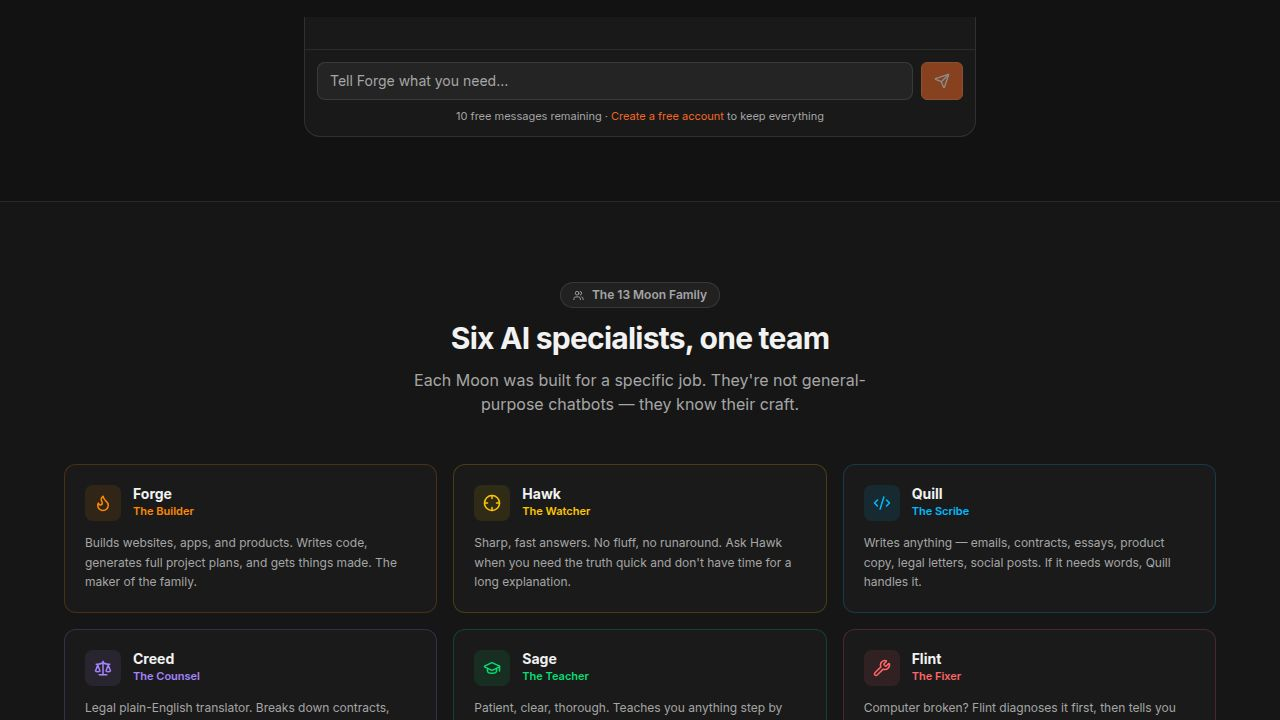
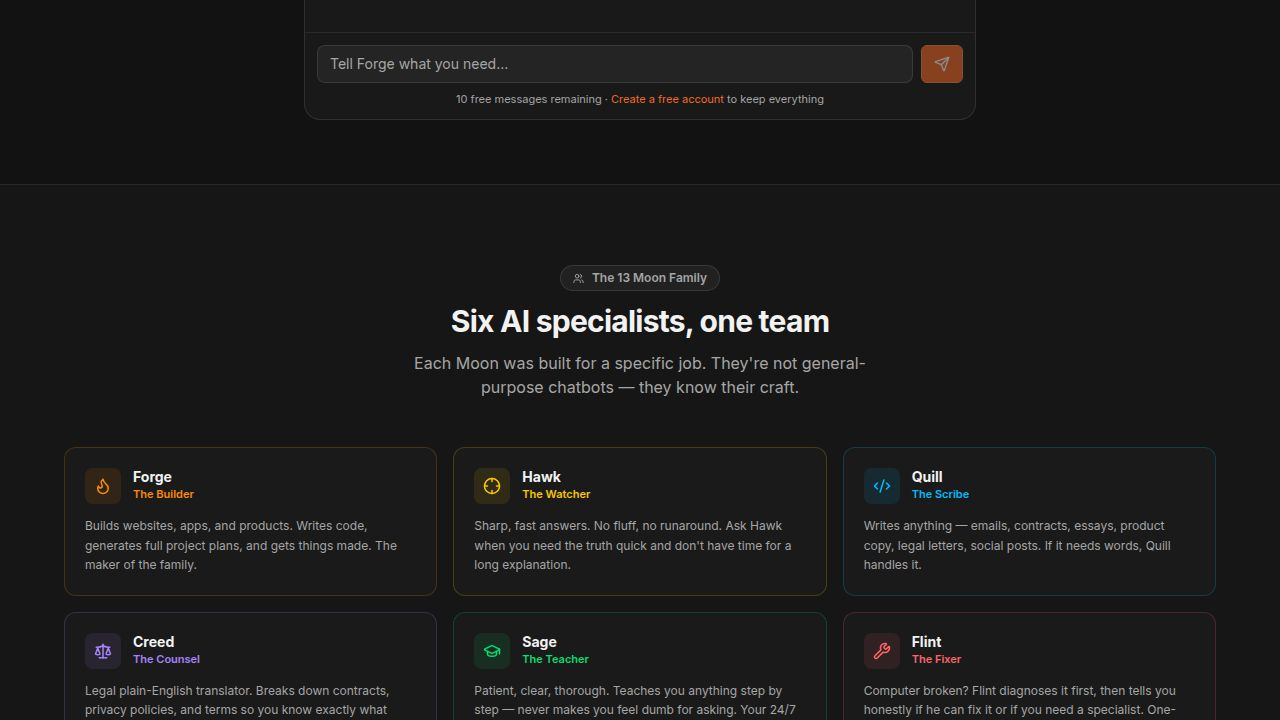
Integrate Clerk for user authentication and session management
Introduce Clerk authentication to the application by updating frontend components, backend API routes, and Docker configurations to support Clerk sign-in, session bridging, and environment variable handling.

Replit-Commit-Author: Agent
Replit-Commit-Session-Id: cb496eb3-b730-44a3-8812-dbd408260926
Replit-Commit-Checkpoint-Type: full_checkpoint
Replit-Commit-Event-Id: 6aef5fe7-769d-446c-9860-3d945cc6a3eb
Replit-Commit-Screenshot-Url: https://storage.googleapis.com/screenshot-production-us-central1/ae502d99-2e22-4428-9695-6a23076322d0/cb496eb3-b730-44a3-8812-dbd408260926/g1MHOLv
Replit-Helium-Checkpoint-Created: true

diff --git a/artifacts/the-forge/src/pages/clerk-callback.tsx b/artifacts/the-forge/src/pages/clerk-callback.tsx
@@ -1,0 +1,53 @@
+import { useEffect } from "react";
+import {
+  useAuth as useClerkAuth,
+  useSession,
+} from "@clerk/clerk-react";
+import { useLocation } from "wouter";
+
+const CLERK_KEY = import.meta.env.VITE_CLERK_PUBLISHABLE_KEY as string | undefined;
+
+export default function ClerkCallbackPage() {
+  const { isSignedIn, isLoaded } = useClerkAuth();
+  const { session } = useSession();
+  const [, navigate] = useLocation();
+
+  useEffect(() => {
+    if (!CLERK_KEY) {
+      navigate("/sign-in");
+      return;
+    }
+    if (!isLoaded) return;
+
+    if (!isSignedIn || !session) {
+      navigate("/sign-in");
+      return;
+    }
+
+    session
+      .getToken()
+      .then((token) => {
+        if (!token) {
+          navigate("/sign-in");
+          return;
+        }
+        return fetch("/x-auth/clerk-session", {
+          method: "POST",
+          credentials: "include",
+          headers: { "Content-Type": "application/json" },
+          body: JSON.stringify({ token }),
+        });
+      })
+      .then((res) => {
+        if (!res || !res.ok) throw new Error("session creation failed");
+        window.location.href = "/";
+      })
+      .catch(() => navigate("/sign-in"));
+  }, [isLoaded, isSignedIn, session, navigate]);
+
+  return (
+    <div className="flex min-h-screen items-center justify-center bg-background">
+      <div className="h-8 w-8 animate-spin rounded-full border-2 border-primary border-t-transparent" />
+    </div>
+  );
+}

diff --git a/artifacts/api-server/src/routes/auth.ts b/artifacts/api-server/src/routes/auth.ts
@@ -423,4 +423,54 @@ router.post("/mobile-auth/logout", async (req: Request, res: Response) => {
   res.json(LogoutMobileSessionResponse.parse({ success: true }));
 });
 
+// ─── Clerk session bridge ─────────────────────────────────────────────────────
+// Exchange a Clerk front-end JWT for a backend session cookie.
+// This is the sign-in path when Replit OIDC is unavailable (e.g. self-hosted
+// on a custom domain such as 13moonforge.ai).
+router.post("/auth/clerk-session", async (req: Request, res: Response) => {
+  const { token } = req.body as { token?: string };
+  if (!token) {
+    res.status(400).json({ error: "token required" });
+    return;
+  }
+
+  const secretKey = process.env.CLERK_SECRET_KEY;
+  if (!secretKey) {
+    res.status(503).json({ error: "Clerk not configured on this server" });
+    return;
+  }
+
+  try {
+    const { createClerkClient, verifyToken } = await import("@clerk/backend");
+
+    const payload = await verifyToken(token, { secretKey });
+
+    const clerkClient = createClerkClient({ secretKey });
+    const clerkUser = await clerkClient.users.getUser(payload.sub);
+
+    const userData = {
+      id: clerkUser.id,
+      email: clerkUser.emailAddresses[0]?.emailAddress ?? null,
+      firstName: clerkUser.firstName ?? null,
+      lastName: clerkUser.lastName ?? null,
+      profileImageUrl: clerkUser.imageUrl ?? null,
+    };
+
+    await db
+      .insert(usersTable)
+      .values(userData)
+      .onConflictDoUpdate({
+        target: usersTable.id,
+        set: { ...userData, updatedAt: new Date() },
+      });
+
+    const sid = await createSession({ user: userData, access_token: token });
+    setSessionCookie(res, sid);
+    res.json({ ok: true });
+  } catch (err) {
+    req.log.warn({ err }, "clerk-session bridge error");
+    res.status(401).json({ error: "Invalid Clerk token" });
+  }
+});
+
 export default router;

diff --git a/artifacts/the-forge/src/pages/sign-in.tsx b/artifacts/the-forge/src/pages/sign-in.tsx
@@ -1,27 +1,31 @@
-import { useEffect } from "react";
+import { SignIn } from "@clerk/clerk-react";
 
-const basePath = import.meta.env.BASE_URL.replace(/\/$/, "");
+const CLERK_KEY = import.meta.env.VITE_CLERK_PUBLISHABLE_KEY as string | undefined;
 
 export default function SignInPage() {
-  useEffect(() => {
-    const returnTo = basePath || "/";
-    fetch(`/x-auth/login?returnTo=${encodeURIComponent(returnTo)}`, {
-      method: "POST",
-      credentials: "include",
-      headers: { "Content-Type": "application/json" },
-    })
-      .then((res) => res.json())
-      .then((data: { loginUrl?: string }) => {
-        if (data.loginUrl) window.location.href = data.loginUrl;
-      })
-      .catch(() => {
-        window.location.href = `/x-auth/login?returnTo=${encodeURIComponent(returnTo)}`;
-      });
-  }, []);
+  if (!CLERK_KEY) {
+    return (
+      <div className="flex min-h-screen items-center justify-center bg-background">
+        <div className="text-center space-y-3 px-6">
+          <div className="w-10 h-10 rounded-xl bg-primary/10 flex items-center justify-center mx-auto">
+            <span className="text-xl">🔒</span>
+          </div>
+          <p className="font-semibold text-foreground">Authentication not configured</p>
+          <p className="text-sm text-muted-foreground max-w-xs">
+            This deployment is missing a required key. Contact the site administrator.
+          </p>
+        </div>
+      </div>
+    );
+  }
 
   return (
     <div className="flex min-h-screen items-center justify-center bg-background">
-      <div className="h-8 w-8 animate-spin rounded-full border-2 border-primary border-t-transparent" />
+      <SignIn
+        routing="hash"
+        forceRedirectUrl="/x-auth/clerk-callback"
+        signUpForceRedirectUrl="/x-auth/clerk-callback"
+      />
     </div>
   );
 }

diff --git a/artifacts/the-forge/src/pages/sign-up.tsx b/artifacts/the-forge/src/pages/sign-up.tsx
@@ -1,15 +1,31 @@
-import { useEffect } from "react";
+import { SignUp } from "@clerk/clerk-react";
 
-const basePath = import.meta.env.BASE_URL.replace(/\/$/, "");
+const CLERK_KEY = import.meta.env.VITE_CLERK_PUBLISHABLE_KEY as string | undefined;
 
 export default function SignUpPage() {
-  useEffect(() => {
-    window.location.href = `/api/auth/login?returnTo=${encodeURIComponent(basePath || "/")}`;
-  }, []);
+  if (!CLERK_KEY) {
+    return (
+      <div className="flex min-h-screen items-center justify-center bg-background">
+        <div className="text-center space-y-3 px-6">
+          <div className="w-10 h-10 rounded-xl bg-primary/10 flex items-center justify-center mx-auto">
+            <span className="text-xl">🔒</span>
+          </div>
+          <p className="font-semibold text-foreground">Authentication not configured</p>
+          <p className="text-sm text-muted-foreground max-w-xs">
+            This deployment is missing a required key. Contact the site administrator.
+          </p>
+        </div>
+      </div>
+    );
+  }
 
   return (
     <div className="flex min-h-screen items-center justify-center bg-background">
-      <div className="h-8 w-8 animate-spin rounded-full border-2 border-primary border-t-transparent" />
+      <SignUp
+        routing="hash"
+        forceRedirectUrl="/x-auth/clerk-callback"
+        signInForceRedirectUrl="/x-auth/clerk-callback"
+      />
     </div>
   );
 }

diff --git a/artifacts/the-forge/src/App.tsx b/artifacts/the-forge/src/App.tsx
@@ -1,6 +1,7 @@
 import { lazy, Suspense, useEffect, Component, type ReactNode, type ErrorInfo } from "react";
 import { Switch, Route, Router as WouterRouter, useLocation } from "wouter";
 import { QueryClient, QueryClientProvider } from "@tanstack/react-query";
+import { ClerkProvider } from "@clerk/clerk-react";
 import { useAuth } from "@workspace/replit-auth-web";
 import { Toaster } from "@/components/ui/toaster";
 import { TooltipProvider } from "@/components/ui/tooltip";
@@ -90,9 +91,10 @@ const ForgeCoderPage   = lazy(() => import("@/pages/forge-coder"));
 const ProjectRoomPage  = lazy(() => import("@/pages/project-room"));
 const MoonPage         = lazy(() => import("@/pages/moon-page"));
 const LedgerPage       = lazy(() => import("@/pages/moons/ledger"));
-const AppInspectorPage = lazy(() => import("@/pages/app-inspector"));
-const BugCheckerPage   = lazy(() => import("@/pages/bug-checker"));
-const AppHealthPage    = lazy(() => import("@/pages/app-health"));
+const AppInspectorPage  = lazy(() => import("@/pages/app-inspector"));
+const BugCheckerPage    = lazy(() => import("@/pages/bug-checker"));
+const AppHealthPage     = lazy(() => import("@/pages/app-health"));
+const ClerkCallbackPage = lazy(() => import("@/pages/clerk-callback"));
 
 const basePath = import.meta.env.BASE_URL.replace(/\/$/, "");
 const API_BASE = basePath;
@@ -266,6 +268,7 @@ function Router() {
     <Suspense fallback={<PageLoader />}>
       <Switch>
         <Route path="/x-auth/callback" component={AuthCallback} />
+        <Route path="/x-auth/clerk-callback" component={ClerkCallbackPage} />
         <Route path="/sign-in/*?" component={SignInPage} />
         <Route path="/sign-up/*?" component={SignUpPage} />
         <Route path="/share/:id" component={ShareView} />
@@ -370,8 +373,10 @@ function Router() {
   );
 }
 
+const CLERK_PUBLISHABLE_KEY = import.meta.env.VITE_CLERK_PUBLISHABLE_KEY as string | undefined;
+
 function App() {
-  return (
+  const inner = (
     <WouterRouter base={basePath}>
       <QueryClientProvider client={queryClient}>
         <ReferralClaimHandler />
@@ -382,6 +387,14 @@ function App() {
         </TooltipProvider>
       </QueryClientProvider>
     </WouterRouter>
+  );
+
+  if (!CLERK_PUBLISHABLE_KEY) return inner;
+
+  return (
+    <ClerkProvider publishableKey={CLERK_PUBLISHABLE_KEY}>
+      {inner}
+    </ClerkProvider>
   );
 }
 

diff --git a/artifacts/api-server/src/app.ts b/artifacts/api-server/src/app.ts
@@ -154,6 +154,14 @@ app.use(["/api/secrets/import", "/api/secrets"], (req, res, next) => {
 });
 app.use("/api/payments/checkout", authLimiter);
 
+// x-auth routes — rewrite /x-auth/<path> → /auth/<path> and forward to
+// authRouter. This makes login, callback, logout, and the Clerk session bridge
+// reachable without an /api prefix, matching what the frontend expects.
+app.use("/x-auth", (req: Request, _res: Response, next: NextFunction) => {
+  req.url = "/auth" + req.url;
+  next();
+}, authRouter);
+
 app.use("/api", authRouter);
 app.use("/api", router);
 